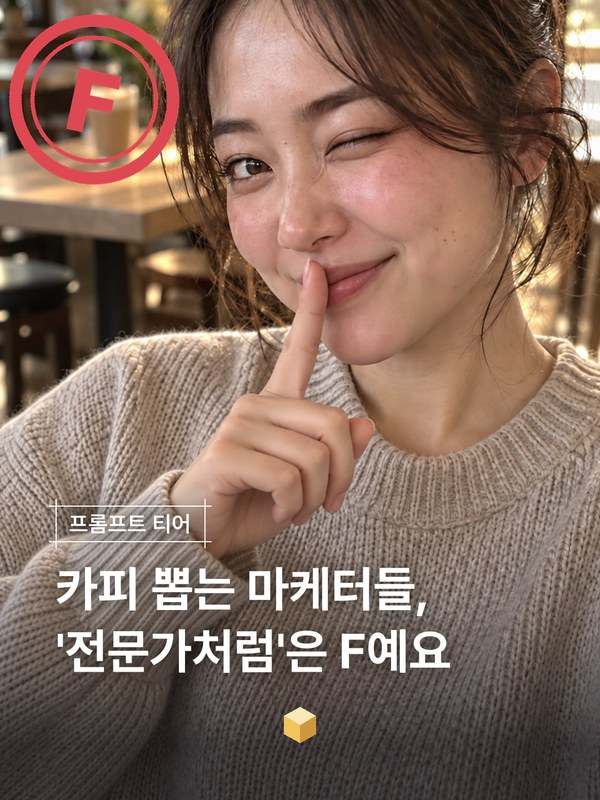
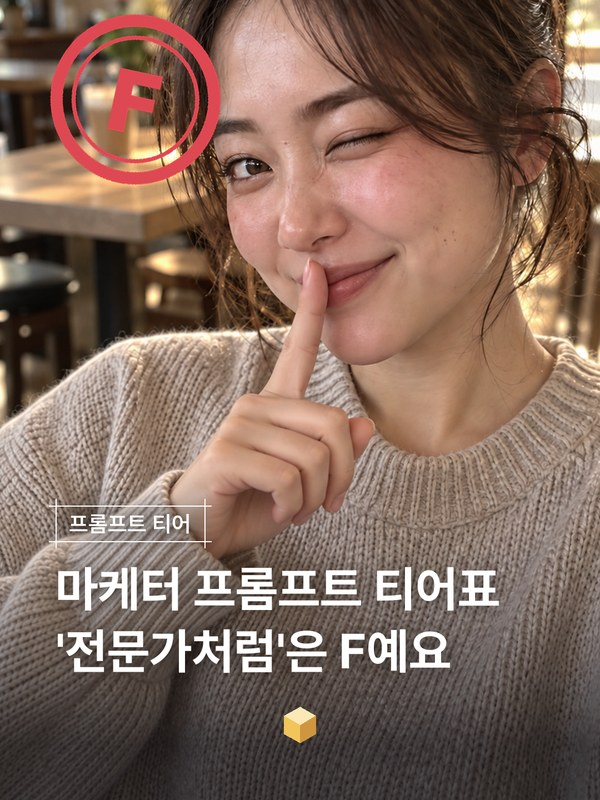
EP.18 상세 노트 v3 — 마케터 프롬프트 티어표 · 역할 말고 잘된 카피 예시 2개(썸네일 T1 커버 · 완성 보드) (목록 Soon!)

Changed region(s): [[0.0, 0.0, 0.39, 0.25], [0.09, 0.6875, 0.84, 0.7812]]

diff --git a/ep/18/index.html b/ep/18/index.html
@@ -3,9 +3,9 @@
 <head>
 <meta charset="utf-8">
 <meta name="viewport" content="width=device-width, initial-scale=1">
-<title>EP.18 카피 뽑는 마케터들, '전문가처럼'은 F예요 · 이거 모르는 마케터 없게 해주세요</title>
+<title>EP.18 마케터 프롬프트 티어표 · '전문가처럼'은 F예요 · 이거 모르는 마케터 없게 해주세요</title>
 <meta name="description" content="같은 카피 요청을 여섯 가지 프롬프트로 18번 돌려 블라인드로 매긴 티어. 프롬프트 6개 원문, 결과 표, 18건 원문, 실험 한계.">
-<meta property="og:title" content="EP.18 카피 뽑는 마케터들, '전문가처럼'은 F예요">
+<meta property="og:title" content="EP.18 마케터 프롬프트 티어표 · '전문가처럼'은 F예요">
 <meta property="og:description" content="프롬프트 6개를 18번 돌린 티어표 — 원문과 결과 전부.">
 <meta property="og:image" content="https://goofee-9p.github.io/ai-marketing-honey/assets/img/og.jpg">
 <link rel="icon" type="image/svg+xml" href="../../assets/img/logo.svg">
@@ -23,8 +23,8 @@
 
   <div class="hero">
     <span class="chip">EP.18 · 프롬프트 티어</span>
-    <h1>카피 뽑는 마케터들,<br><span class="hl">'전문가처럼'은 F예요</span></h1>
-    <p class="lead">같은 카피 요청을 여섯 가지 방식으로 3번씩, 모두 18번 돌렸어요. 결과는 어떤 요청으로 나왔는지 가린 채 채점했어요. <b>역할 부여와 글자 수 지정은 그냥 요청보다 나은 게 없었고</b>, 잘된 카피 예시 2개를 붙였을 때 바로 쓸 카피가 가장 많았어요.</p>
+    <h1>마케터 프롬프트 티어표,<br><span class="hl">'전문가처럼'은 F예요</span></h1>
+    <p class="lead">같은 앰플 카피 요청에 덧붙이는 말만 여섯 가지로 바꿔 3번씩 돌리고, 5개 중 바로 쓸 카피가 몇 개 나오나 세서 S부터 F까지 매겼어요. <b>역할 주기("너는 10년 차 마케터야")는 그냥 시킨 것보다 나은 게 없었고, 잘된 카피 예시 2개를 붙이자 바로 쓸 카피가 두 배</b>가 됐어요. 그래서 결론은 하나예요: GPT로 카피 뽑을 땐 역할 말고, 잘된 카피 예시 두 개를 붙이세요.</p>
     <div class="meta"><span class="chip ghost">프롬프트 6개 원문</span><span class="chip ghost">결과 표</span><span class="chip ghost">18건 원문</span></div>
   </div>
 

diff --git a/index.html b/index.html
@@ -47,7 +47,7 @@
       </div>
       <div class="ep soon" aria-label="EP.18 곧 공개">
         <img src="assets/img/ep18/cover_34.jpg" alt="EP.18 커버">
-        <div><div class="no">EP.18</div><div class="t">카피 뽑는 마케터들, '전문가처럼'은 F예요</div><div class="d">같은 요청을 프롬프트 6가지로 18번 돌린 티어표. 프롬프트 원문 + 결과 표 + 18건 원문 + 실험 한계.</div></div>
+        <div><div class="no">EP.18</div><div class="t">마케터 프롬프트 티어표, '전문가처럼'은 F예요</div><div class="d">역할 말고 잘된 카피 예시 2개. 덧붙이는 말 6가지를 S~F로 매긴 프롬프트 원문 + 결과 표 + 18건 원문 + 실험 한계.</div></div>
         <span class="badge">Soon!</span>
       </div>
       <a class="ep" href="ep/17/">
